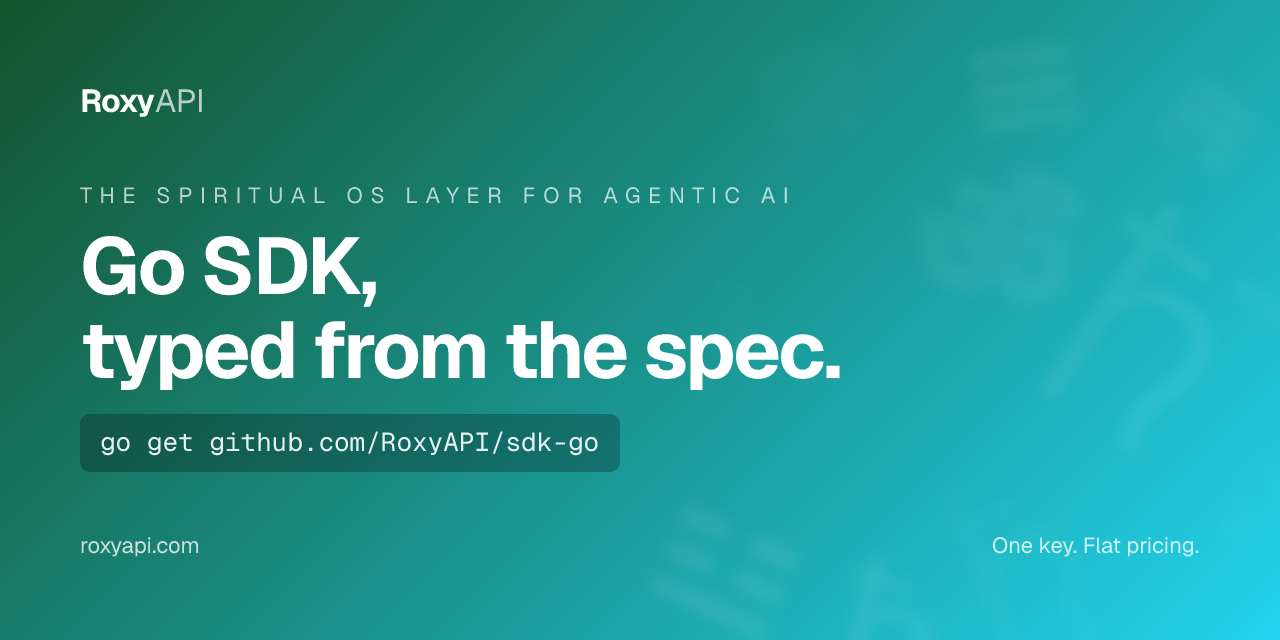
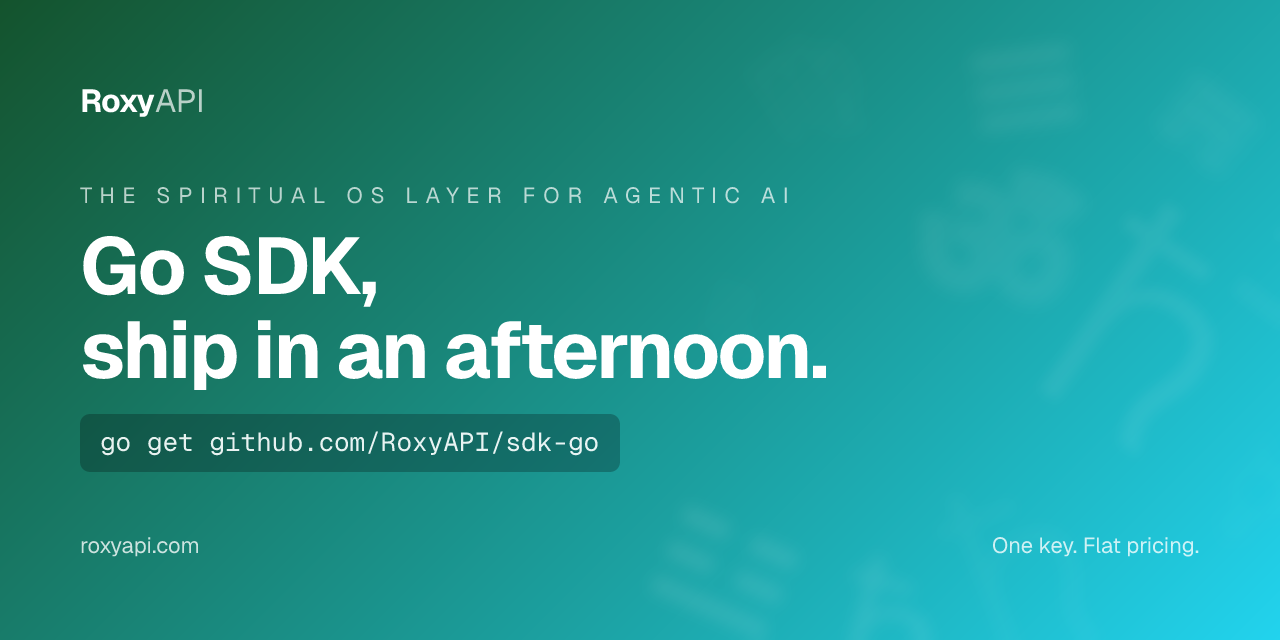
docs: hero promise line sells the outcome

Changed region(s): [[0.0625, 0.5, 0.6562, 0.625]]

diff --git a/README.md b/README.md
@@ -1,6 +1,6 @@
 <p align="center">
   <a href="https://roxyapi.com">
-    <img src="https://raw.githubusercontent.com/RoxyAPI/sdk-go/main/assets/hero.png" alt="RoxyAPI Go SDK, typed from the spec. The Spiritual OS layer for agentic AI. One key, flat pricing." width="100%">
+    <img src="https://raw.githubusercontent.com/RoxyAPI/sdk-go/main/assets/hero.png" alt="RoxyAPI Go SDK, ship in an afternoon. The Spiritual OS layer for agentic AI. One key, flat pricing." width="100%">
   </a>
 </p>
 
